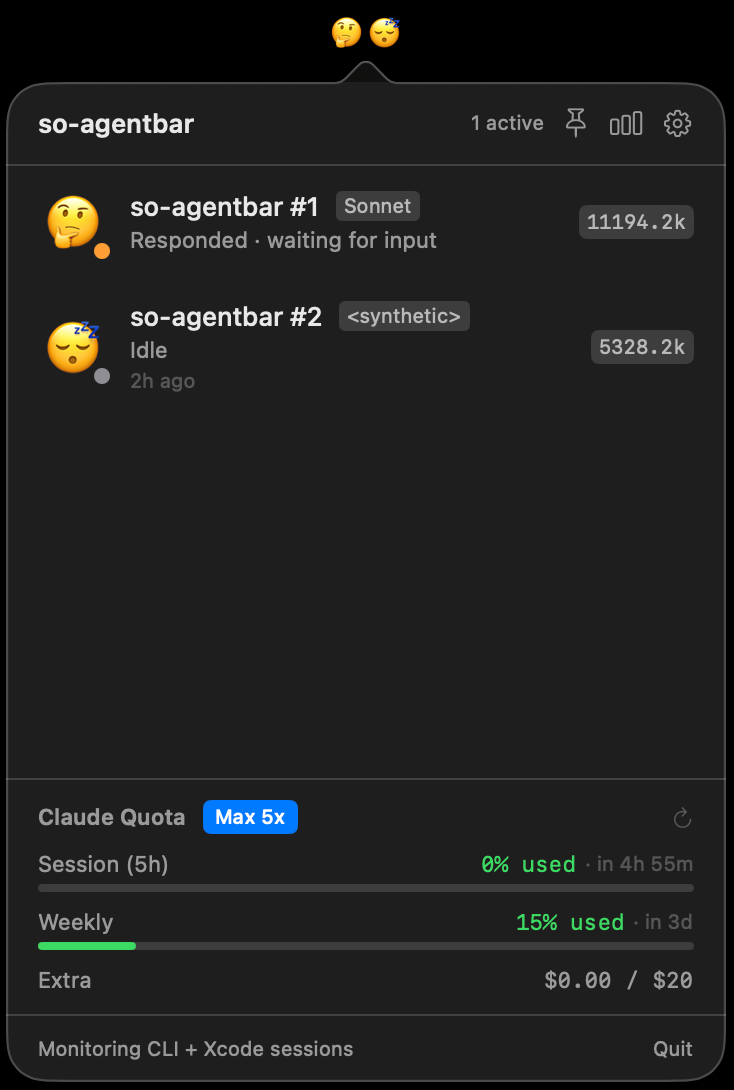
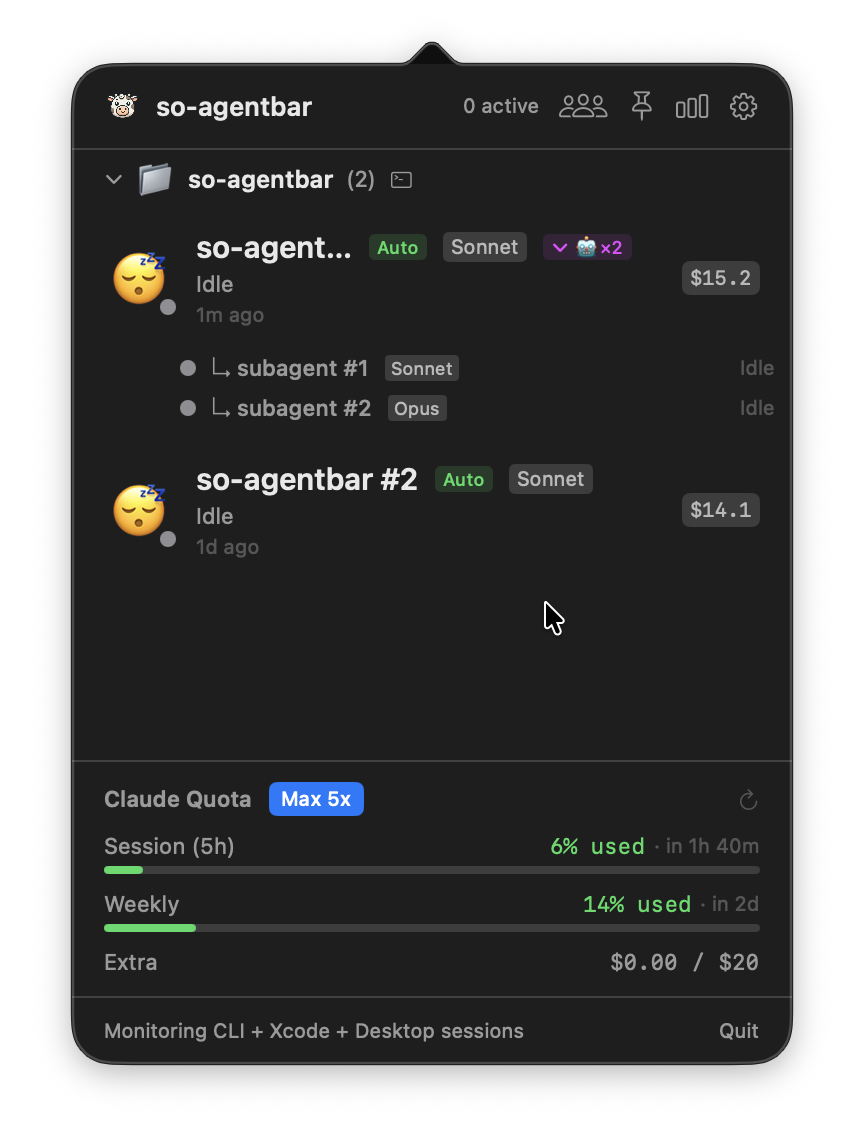
Update screenshots and add pixel agents window to docs
- Refresh 1.png, 2.png, 3.png with latest UI
- Add 4.png: pixel agents floating window
- README: add pixel agents screenshot in Screenshots section
- index.html: add Screenshots section with session panel + pixel agents

diff --git a/docs/index.html b/docs/index.html
@@ -130,6 +130,35 @@
       color: var(--text-muted);
     }
 
+    /* Screenshots */
+    .screenshots {
+      padding: 64px 0 0;
+    }
+    .screenshot-grid {
+      display: grid;
+      grid-template-columns: 1fr 1fr;
+      gap: 24px;
+      margin-top: 40px;
+    }
+    .screenshot-item {
+      border-radius: 16px;
+      overflow: hidden;
+      border: 1px solid var(--border);
+      background: var(--surface);
+    }
+    .screenshot-item img {
+      width: 100%;
+      display: block;
+    }
+    .screenshot-caption {
+      padding: 14px 18px;
+      font-size: 13px;
+      color: var(--text-muted);
+    }
+    @media (max-width: 768px) {
+      .screenshot-grid { grid-template-columns: 1fr; }
+    }
+
     /* Features */
     .features {
       padding: 80px 0;
@@ -267,6 +296,23 @@
         </a>
       </div>
       <p class="platform-note">Requires macOS 14.0 or later</p>
+    </div>
+  </section>
+
+  <section class="screenshots">
+    <div class="container">
+      <p class="section-label">Screenshots</p>
+      <h2 class="section-title">See it in action</h2>
+      <div class="screenshot-grid">
+        <div class="screenshot-item">
+          <img src="1.png" alt="Menu bar session panel">
+          <div class="screenshot-caption">Menu bar icon and active session panel with token &amp; cost tracking</div>
+        </div>
+        <div class="screenshot-item">
+          <img src="4.png" alt="Pixel Agents floating window">
+          <div class="screenshot-caption">Pixel Agents — animated characters that reflect each session's live status</div>
+        </div>
+      </div>
     </div>
   </section>
 

diff --git a/README.md b/README.md
@@ -33,6 +33,11 @@
   <br><em>Settings: language, notifications, quota threshold, and display options</em>
 </p>
 
+<p align="center">
+  <img src="docs/4.png" alt="Pixel Agents floating window" width="400">
+  <br><em>Pixel Agents — animated pixel art characters that reflect each session's live status</em>
+</p>
+
 ## Features
 
 - **Real-time Session Monitoring** — Automatically detects and tracks all running Claude sessions: CLI, Xcode, Claude Desktop Code, and Claude Desktop Cowork
